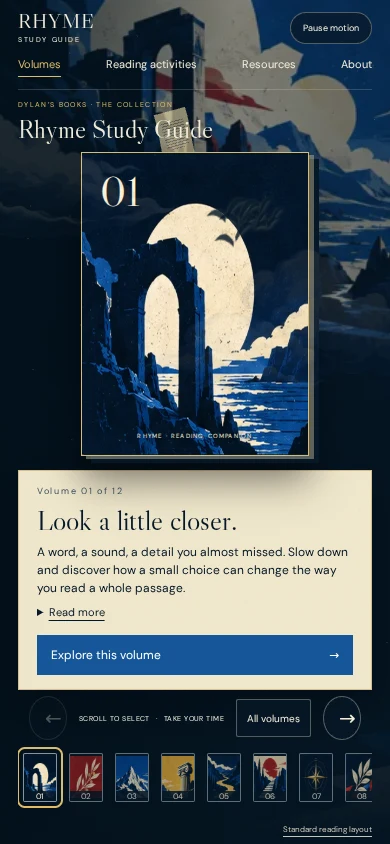
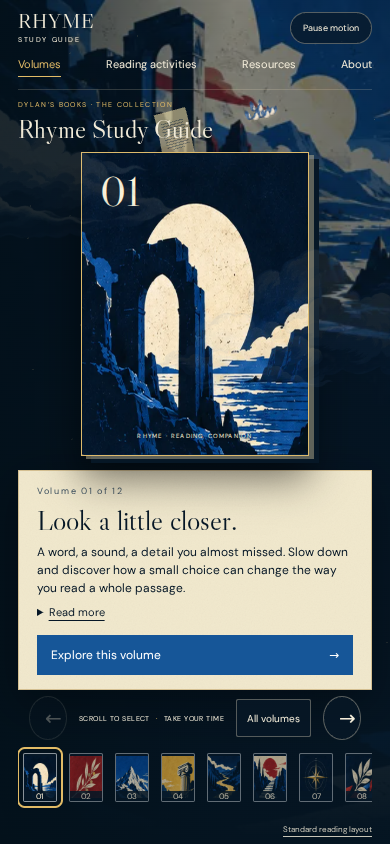
Add layered animated bird rig

diff --git a/assets/explorer.js b/assets/explorer.js
@@ -1,1 +1,1 @@
-var k=class{constructor(){this.reset()}reset(){this.total=0,this.last=-1/0,this.locked=!1,this.selectedAt=-1/0}feed(t,a){return a-this.last>220&&a-this.selectedAt>650&&(this.total=0,this.locked=!1),this.last=a,this.locked||!t||(Math.sign(t)!==Math.sign(this.total)&&(this.total=0),this.total+=t,Math.abs(this.total)<70)?0:(this.locked=!0,this.selectedAt=a,Math.sign(this.total))}};function R({surface:e,enabled:t,step:a}){let r=new k,d=s=>s.closest(".reading-panel,.thumbnail-strip,header,footer,dialog,details,input,textarea,select,a,button");e.addEventListener("wheel",s=>{if(!t()||s.ctrlKey||s.metaKey||d(s.target))return;s.preventDefault();let h=s.deltaY*(s.deltaMode===1?16:s.deltaMode===2?innerHeight:1),f=r.feed(h,performance.now());f&&a(f)},{passive:!1});let l=e.querySelector(".cover-stage"),o=null;l.addEventListener("touchstart",s=>{o=t()&&s.touches.length===1?{x:s.touches[0].clientX,y:s.touches[0].clientY}:null},{passive:!0}),l.addEventListener("touchmove",s=>{s.touches.length!==1&&(o=null)},{passive:!0}),l.addEventListener("touchend",s=>{if(!o||!t())return;let h=s.changedTouches[0].clientX-o.x,f=s.changedTouches[0].clientY-o.y;o=null;let m=Math.abs(h)>Math.abs(f)?h:f;Math.abs(m)>45&&a(m<0?1:-1)},{passive:!0}),l.addEventListener("touchcancel",()=>o=null,{passive:!0})}var X=[[-.78,.5],[-.78,.83],[.78,.83],[.78,.5]],G=[[.78,.5],[.78,.17],[-.78,.17],[-.78,.5]],U=60;function Z(e,t){let a=1-t;return{x:a**3*e[0][0]+3*a*a*t*e[1][0]+3*a*t*t*e[2][0]+t**3*e[3][0],y:a**3*e[0][1]+3*a*a*t*e[1][1]+3*a*t*t*e[2][1]+t**3*e[3][1]}}function _(e,t){let a=1-t;return{x:3*a*a*(e[1][0]-e[0][0])+6*a*t*(e[2][0]-e[1][0])+3*t*t*(e[3][0]-e[2][0]),y:3*a*a*(e[1][1]-e[0][1])+6*a*t*(e[2][1]-e[1][1])+3*t*t*(e[3][1]-e[2][1])}}function N(e,t=0){let a=((e/U+.28-t*.008)%1+1)%1,r=a<.5?X:G,d=a%.5*2,l=Z(r,d),o=_(r,d),s=Math.hypot(o.x,o.y)||1,h={x:o.x/s,y:o.y/s},f=t===0?0:(t%2?1:-1)*(.024+Math.floor(t/2)*.018);return{x:l.x-h.y*f,y:l.y+h.x*f,angle:Math.atan2(h.y,h.x),wing:Math.sin(e*Math.PI*2*1.4+t*.8)*.65}}var J=7;function D(e){let t=!1,a=0,r=performance.now(),d=0,l=[...e.querySelectorAll("[data-bird]")],o=()=>{let m=innerWidth<700,Q=m?4:J;l.forEach((x,q)=>{if(x.hidden=q>=Q,x.hidden)return;let E=N(d,q),Y=50+E.x*44,j=12+E.y*22;x.setAttribute("transform",`translate(${Y} ${j}) rotate(${E.angle*180/Math.PI}) scale(${m?.42:.62})`),x.style.setProperty("--wing-beat",`${E.wing}rad`)})},s=m=>{a=0,!(t||document.hidden)&&(d+=Math.min((m-r)/1e3,.07),r=m,o(),a=requestAnimationFrame(s))},h=()=>{cancelAnimationFrame(a),a=0,!t&&!document.hidden&&(r=performance.now(),a=requestAnimationFrame(s))},f=()=>o();return addEventListener("resize",f),o(),h(),{setPaused(m){t=m,t?(cancelAnimationFrame(a),a=0,o()):h(),e.dataset.paused=String(t)},dispose(){t=!0,cancelAnimationFrame(a),removeEventListener("resize",f)}}}var ee=[["Notice the small things","Look a little closer.","A word, a sound, a detail you almost missed. Slow down and discover how a small choice can change the way you read a whole passage.",["Attention","Imagery"],"study-guide/reading-practice/notice/","Moonlit arch"],["Find where you belong","Follow the roots.","Explore how places and relationships shape a sense of belonging. Notice who feels at home, who stands apart, and what brings them together.",["Belonging","Setting"],"themes/belonging/","Olive branch"],["See another perspective","A different point of view.","Step beyond your first impression. Ask whose story you are hearing and how the same moment might look through someone else\u2019s eyes.",["Perspective","Narrator"],"themes/perspective/","Mountain peak"],["Build an interpretation","Give your idea a foundation.","Start with a detail from your reading, then build an interpretation around it. Separate what the text tells you from what you infer.",["Evidence","Inference"],"vocabulary/inference/","Classical column"],["Follow an idea","Find the thread.","Connect two moments in your reading. Look for an image, choice, or question that returns, and consider what changes along the way.",["Connection","Theme"],"study-guide/reading-practice/connect/","Golden river"],["Notice what changes","Every step reveals something.","Compare the beginning with a later moment. A small shift in language, a new choice, or a changed relationship can reveal a larger transformation.",["Change","Character"],"themes/change/","Staircase and sun"],["Find your reading direction","Let curiosity lead.","Choose a passage and a question to guide you. Follow a short reading activity at your own pace, with room to pause and return.",["Curiosity","Reflection"],"study-guide/reading-practice/","Compass star"],["Listen to the language","Hear the words differently.","Read a sentence aloud. Listen for its rhythm, its pauses, and its movement. Consider how the pace changes what you feel and notice.",["Rhythm","Sound"],"vocabulary/rhythm/","Paper and branch"],["Follow the echoes","Listen for a returning sound.","Explore the sounds that connect words and lines. Notice how a rhyme creates expectation, adds emphasis, or draws two ideas together.",["Rhyme","Language"],"vocabulary/rhyme/","Ocean wave"],["Step into the setting","A world beyond the page.","Look at the place, time, and conditions surrounding a story. Ask how those surroundings influence a character\u2019s choices and the mood of a scene.",["Setting","Imagery"],"vocabulary/setting/","Stone doorway"],["Make room for another view","See a little further.","One passage can open more than one possibility. Revisit a first impression, listen to another perspective, and return to the text with a new question.",["Perspective","Reflection"],"study-guide/reading-practice/reflect/","Lighthouse"],["Carry the conversation on","The last page is a beginning.","Bring a detail, a connection, or an unanswered question to another reader. Make room for different interpretations and see what you discover together.",["Conversation","Discovery"],"discussion/","Moonlit steps"]],w=ee.map(([e,t,a,r,d,l],o)=>({id:o+1,number:String(o+1).padStart(2,"0"),title:`Volume ${String(o+1).padStart(2,"0")}`,focus:e,headline:t,summary:a,themes:r,activity:d,art:l,status:"reading-companion",bookTitle:null,bookSummary:null,accent:["#164f8d","#9d352b","#245d9a","#d2ad50"][o%4],coverImage:`assets/volumes/volume-${String(o+1).padStart(2,"0")}.webp`,thumbnail:`assets/volumes/volume-${String(o+1).padStart(2,"0")}-small.webp`,route:`volumes/${String(o+1).padStart(2,"0")}/`}));var H=new Set(["volumes","activities","resources","about"]),L=class{constructor(t,a=""){this.volumes=t,this.listeners=new Set,this.state={activeIndex:0,view:"volumes",expanded:!1,transition:"idle",motionOff:!1,chooserOpen:!1},this.readHash(a)}snapshot(){return{...this.state,volume:this.volumes[this.state.activeIndex],canPrevious:this.state.activeIndex>0,canNext:this.state.activeIndex<this.volumes.length-1}}subscribe(t){return this.listeners.add(t),t(this.snapshot()),()=>this.listeners.delete(t)}update(t){this.state={...this.state,...t},this.listeners.forEach(a=>a(this.snapshot()))}select(t){return!Number.isInteger(t)||t<0||t>=this.volumes.length?!1:(this.update({activeIndex:t,view:"volumes",expanded:!1,transition:this.state.motionOff?"idle":"entering"}),!0)}step(t){return this.select(this.state.activeIndex+t)}show(t){return H.has(t)?(this.update({view:t,expanded:!1}),!0):!1}readHash(t){let a=/^#volume-(\d{2})$/.exec(t);a?this.select(Number(a[1])-1)||this.select(0):H.has(t.slice(1))?this.show(t.slice(1)):(!t||t.startsWith("#volume-"))&&this.select(0)}get hash(){return this.state.view==="volumes"?`#volume-${this.volumes[this.state.activeIndex].number}`:`#${this.state.view}`}};var u=document.documentElement,n=e=>document.querySelector(e),p=e=>[...document.querySelectorAll(e)],i=new L(w,location.hash),M=p("[data-volume]"),S=p("[data-cover]"),I=p(".volume-panel"),v=n("dialog"),A=matchMedia("(prefers-reduced-motion:reduce)"),c=-1,$="",K,g,V,b;u.classList.add("js");var W=()=>{u.dataset.documentHidden=String(document.hidden),b?.setPaused(document.hidden||i.state.motionOff||u.dataset.layout==="standard")};document.addEventListener("visibilitychange",W);W();function P(){location.hash!==i.hash&&history.pushState(null,"",i.hash)}function y(e){i.select(e)&&P()}function te(e){i.show(e)&&P()}function B(e){let t=n(".thumbnail-strip"),a=M[e];t.scrollTo({left:a.offsetLeft-t.offsetLeft-(t.clientWidth-a.clientWidth)/2,behavior:"instant"})}i.subscribe(e=>{let t=c!==e.activeIndex;if(t&&c>=0&&!e.motionOff){p(".departing-cover").forEach(l=>l.remove());let a=S[c],r=a.getBoundingClientRect(),d=a.cloneNode(!0);d.removeAttribute("data-cover"),d.className="departing-cover",d.setAttribute("aria-hidden","true"),d.style.width=`${r.width}px`,d.style.height=`${r.height}px`,n(".cover-stage").append(d),d.addEventListener("animationend",()=>d.remove(),{once:!0})}if(M.forEach((a,r)=>a.setAttribute("aria-pressed",String(r===e.activeIndex))),S.forEach((a,r)=>a.hidden=r!==e.activeIndex),I.forEach((a,r)=>{a.hidden=r!==e.activeIndex,a.querySelector("details").open=r===e.activeIndex&&e.expanded}),n("[data-position]").textContent=`Volume ${e.volume.number} of ${w.length}`,n("[data-previous]").disabled=!e.canPrevious,n("[data-next]").disabled=!e.canNext,p("[data-scene]").forEach(a=>a.hidden=a.dataset.scene!==e.view),p("header [data-view]").forEach(a=>{a.dataset.view===e.view?a.setAttribute("aria-current","page"):a.removeAttribute("aria-current")}),t){c=e.activeIndex;for(let a of[S[c],I[c]])a.classList.remove("is-entering"),a.offsetWidth,a.classList.add("is-entering");n("[data-announcer]").textContent=`Volume ${e.volume.number} of ${w.length}. ${e.volume.focus}.`,n("[data-reading-panel]").scrollTop=0,requestAnimationFrame(()=>B(c)),clearTimeout(K),K=setTimeout(()=>{S[c].classList.remove("is-entering"),I[c].classList.remove("is-entering"),i.update({transition:"idle"})},500)}$!==e.view&&($=e.view,u.dataset.currentView=$)});M.forEach((e,t)=>e.addEventListener("click",()=>y(t)));n("[data-previous]").addEventListener("click",()=>y(c-1));n("[data-next]").addEventListener("click",()=>y(c+1));p("header [data-view]").forEach(e=>e.addEventListener("click",t=>{t.preventDefault(),te(e.dataset.view)}));p("details").forEach(e=>e.addEventListener("toggle",()=>{!e.closest("[hidden]")&&e.open!==i.state.expanded&&i.update({expanded:e.open})}));function O(e){u.dataset.layout=e?"standard":"visual",e||window.scrollTo(0,0),g?.setPaused(e||i.state.motionOff),b?.setPaused(e||i.state.motionOff)}n("[data-standard]").addEventListener("click",e=>{e.preventDefault(),history.pushState(null,"","#standard"),O(!0),n("[data-return]").focus()});n("[data-return]").addEventListener("click",()=>{O(!1),P(),n("[data-standard]").focus()});function C(){O(location.hash==="#standard"),i.readHash(location.hash)}addEventListener("popstate",C);addEventListener("hashchange",C);C();function F(){v.close(),i.update({chooserOpen:!1}),n("[data-chooser]").focus({preventScroll:!0})}n("[data-chooser]").addEventListener("click",()=>{i.update({chooserOpen:!0}),v.showModal(),n("[data-close-chooser]").focus()});n("[data-close-chooser]").addEventListener("click",F);v.addEventListener("keydown",e=>{if(e.key!=="Tab")return;let t=[...v.querySelectorAll("button")],a=t[0],r=t.at(-1);e.shiftKey&&document.activeElement===a?(e.preventDefault(),r.focus()):!e.shiftKey&&document.activeElement===r&&(e.preventDefault(),a.focus())});v.addEventListener("cancel",e=>{e.preventDefault(),F()});p("[data-choice]").forEach(e=>e.addEventListener("click",()=>{y(Number(e.dataset.choice)),F()}));document.addEventListener("keydown",e=>{if(e.altKey||e.ctrlKey||e.metaKey||v.open||u.dataset.layout==="standard"||i.state.view!=="volumes"||e.target.closest("details,input,textarea,select"))return;let t={ArrowRight:c+1,ArrowLeft:c-1,Home:0,End:w.length-1}[e.key];t!==void 0&&(e.preventDefault(),y(t))});var z={get(){try{return localStorage.getItem("rhyme:motion")}catch{return null}},set(e){try{localStorage.setItem("rhyme:motion",e)}catch{}}};async function T(){let e=A.matches||z.get()==="off";i.update({motionOff:e}),u.dataset.motion=e?"off":"on";let t=n(".motion-control");t.disabled=A.matches,t.setAttribute("aria-pressed",String(e)),t.textContent=A.matches?"Reduced motion":e?"Enable motion":"Pause motion",!e&&!g&&(V??=import("./rhyme-world-renderer-KITZ2NJD.js").then(({mountWorld:a})=>a(n("#world-canvas"))).catch(()=>(u.dataset.webgl="fallback",null)),g=await V),g?.setPaused(i.state.motionOff||u.dataset.layout==="standard"),b?.setPaused(i.state.motionOff||u.dataset.layout==="standard"||document.hidden)}n(".motion-control").addEventListener("click",()=>{z.set(i.state.motionOff?"on":"off"),T()});A.addEventListener("change",T);T();n(".cover-stage").addEventListener("pointermove",e=>{!i.state.motionOff&&e.pointerType==="mouse"&&g?.setPointer((e.clientX/innerWidth-.5)*.5,(e.clientY/innerHeight-.5)*.5)});n(".cover-stage").addEventListener("pointerleave",()=>g?.setPointer(0,0));p("img").forEach(e=>{let t=()=>{e.dataset.fallback||(e.dataset.fallback="true",e.src=new URL("assets/world/fallback.svg",document.baseURI).href)};e.addEventListener("error",t),e.complete&&!e.naturalWidth&&t()});addEventListener("resize",()=>B(c));R({surface:n(".reader-shell"),enabled:()=>i.state.view==="volumes"&&!i.state.chooserOpen&&u.dataset.layout!=="standard",step:e=>y(c+e)});b=D(n(".foreground-atmosphere"));b.setPaused(i.state.motionOff||u.dataset.layout==="standard"||document.hidden);u.dataset.explorer="ready";
+var $=class{constructor(){this.reset()}reset(){this.total=0,this.last=-1/0,this.locked=!1,this.selectedAt=-1/0}feed(t,a){return a-this.last>220&&a-this.selectedAt>650&&(this.total=0,this.locked=!1),this.last=a,this.locked||!t||(Math.sign(t)!==Math.sign(this.total)&&(this.total=0),this.total+=t,Math.abs(this.total)<70)?0:(this.locked=!0,this.selectedAt=a,Math.sign(this.total))}};function N({surface:e,enabled:t,step:a}){let r=new $,d=s=>s.closest(".reading-panel,.thumbnail-strip,header,footer,dialog,details,input,textarea,select,a,button");e.addEventListener("wheel",s=>{if(!t()||s.ctrlKey||s.metaKey||d(s.target))return;s.preventDefault();let h=s.deltaY*(s.deltaMode===1?16:s.deltaMode===2?innerHeight:1),f=r.feed(h,performance.now());f&&a(f)},{passive:!1});let l=e.querySelector(".cover-stage"),o=null;l.addEventListener("touchstart",s=>{o=t()&&s.touches.length===1?{x:s.touches[0].clientX,y:s.touches[0].clientY}:null},{passive:!0}),l.addEventListener("touchmove",s=>{s.touches.length!==1&&(o=null)},{passive:!0}),l.addEventListener("touchend",s=>{if(!o||!t())return;let h=s.changedTouches[0].clientX-o.x,f=s.changedTouches[0].clientY-o.y;o=null;let m=Math.abs(h)>Math.abs(f)?h:f;Math.abs(m)>45&&a(m<0?1:-1)},{passive:!0}),l.addEventListener("touchcancel",()=>o=null,{passive:!0})}var G=[[-.78,.5],[-.78,.83],[.78,.83],[.78,.5]],U=[[.78,.5],[.78,.17],[-.78,.17],[-.78,.5]],_=60;function J(e,t){let a=1-t;return{x:a**3*e[0][0]+3*a*a*t*e[1][0]+3*a*t*t*e[2][0]+t**3*e[3][0],y:a**3*e[0][1]+3*a*a*t*e[1][1]+3*a*t*t*e[2][1]+t**3*e[3][1]}}function Q(e,t){let a=1-t;return{x:3*a*a*(e[1][0]-e[0][0])+6*a*t*(e[2][0]-e[1][0])+3*t*t*(e[3][0]-e[2][0]),y:3*a*a*(e[1][1]-e[0][1])+6*a*t*(e[2][1]-e[1][1])+3*t*t*(e[3][1]-e[2][1])}}function R(e,t=0){let a=((e/_+.28-t*.008)%1+1)%1,r=a<.5?G:U,d=a%.5*2,l=J(r,d),o=Q(r,d),s=Math.hypot(o.x,o.y)||1,h={x:o.x/s,y:o.y/s},f=t===0?0:(t%2?1:-1)*(.024+Math.floor(t/2)*.018);return{x:l.x-h.y*f,y:l.y+h.x*f,angle:Math.atan2(h.y,h.x),wing:Math.sin(e*Math.PI*2*1.4+t*.8)*.65}}var Z=7;function D(e){let t=!1,a=0,r=performance.now(),d=0,l=[...e.querySelectorAll("[data-bird]")],o=()=>{let m=innerWidth<700,Y=m?4:Z;l.forEach((g,q)=>{if(g.hidden=q>=Y,g.hidden)return;let E=R(d,q),j=50+E.x*44,X=12+E.y*22;g.style.setProperty("--bird-x",`${j}%`),g.style.setProperty("--bird-y",`${X}%`),g.style.setProperty("--bird-scale",m?.42:.62),g.style.setProperty("--bird-angle",`${E.angle}rad`),g.style.setProperty("--wing-flap",`${E.wing}rad`)})},s=m=>{a=0,!(t||document.hidden)&&(d+=Math.min((m-r)/1e3,.07),r=m,o(),a=requestAnimationFrame(s))},h=()=>{cancelAnimationFrame(a),a=0,!t&&!document.hidden&&(r=performance.now(),a=requestAnimationFrame(s))},f=()=>o();return addEventListener("resize",f),o(),h(),{setPaused(m){t=m,t?(cancelAnimationFrame(a),a=0,o()):h(),e.dataset.paused=String(t)},dispose(){t=!0,cancelAnimationFrame(a),removeEventListener("resize",f)}}}var ee=[["Notice the small things","Look a little closer.","A word, a sound, a detail you almost missed. Slow down and discover how a small choice can change the way you read a whole passage.",["Attention","Imagery"],"study-guide/reading-practice/notice/","Moonlit arch"],["Find where you belong","Follow the roots.","Explore how places and relationships shape a sense of belonging. Notice who feels at home, who stands apart, and what brings them together.",["Belonging","Setting"],"themes/belonging/","Olive branch"],["See another perspective","A different point of view.","Step beyond your first impression. Ask whose story you are hearing and how the same moment might look through someone else\u2019s eyes.",["Perspective","Narrator"],"themes/perspective/","Mountain peak"],["Build an interpretation","Give your idea a foundation.","Start with a detail from your reading, then build an interpretation around it. Separate what the text tells you from what you infer.",["Evidence","Inference"],"vocabulary/inference/","Classical column"],["Follow an idea","Find the thread.","Connect two moments in your reading. Look for an image, choice, or question that returns, and consider what changes along the way.",["Connection","Theme"],"study-guide/reading-practice/connect/","Golden river"],["Notice what changes","Every step reveals something.","Compare the beginning with a later moment. A small shift in language, a new choice, or a changed relationship can reveal a larger transformation.",["Change","Character"],"themes/change/","Staircase and sun"],["Find your reading direction","Let curiosity lead.","Choose a passage and a question to guide you. Follow a short reading activity at your own pace, with room to pause and return.",["Curiosity","Reflection"],"study-guide/reading-practice/","Compass star"],["Listen to the language","Hear the words differently.","Read a sentence aloud. Listen for its rhythm, its pauses, and its movement. Consider how the pace changes what you feel and notice.",["Rhythm","Sound"],"vocabulary/rhythm/","Paper and branch"],["Follow the echoes","Listen for a returning sound.","Explore the sounds that connect words and lines. Notice how a rhyme creates expectation, adds emphasis, or draws two ideas together.",["Rhyme","Language"],"vocabulary/rhyme/","Ocean wave"],["Step into the setting","A world beyond the page.","Look at the place, time, and conditions surrounding a story. Ask how those surroundings influence a character\u2019s choices and the mood of a scene.",["Setting","Imagery"],"vocabulary/setting/","Stone doorway"],["Make room for another view","See a little further.","One passage can open more than one possibility. Revisit a first impression, listen to another perspective, and return to the text with a new question.",["Perspective","Reflection"],"study-guide/reading-practice/reflect/","Lighthouse"],["Carry the conversation on","The last page is a beginning.","Bring a detail, a connection, or an unanswered question to another reader. Make room for different interpretations and see what you discover together.",["Conversation","Discovery"],"discussion/","Moonlit steps"]],b=ee.map(([e,t,a,r,d,l],o)=>({id:o+1,number:String(o+1).padStart(2,"0"),title:`Volume ${String(o+1).padStart(2,"0")}`,focus:e,headline:t,summary:a,themes:r,activity:d,art:l,status:"reading-companion",bookTitle:null,bookSummary:null,accent:["#164f8d","#9d352b","#245d9a","#d2ad50"][o%4],coverImage:`assets/volumes/volume-${String(o+1).padStart(2,"0")}.webp`,thumbnail:`assets/volumes/volume-${String(o+1).padStart(2,"0")}-small.webp`,route:`volumes/${String(o+1).padStart(2,"0")}/`}));var H=new Set(["volumes","activities","resources","about"]),L=class{constructor(t,a=""){this.volumes=t,this.listeners=new Set,this.state={activeIndex:0,view:"volumes",expanded:!1,transition:"idle",motionOff:!1,chooserOpen:!1},this.readHash(a)}snapshot(){return{...this.state,volume:this.volumes[this.state.activeIndex],canPrevious:this.state.activeIndex>0,canNext:this.state.activeIndex<this.volumes.length-1}}subscribe(t){return this.listeners.add(t),t(this.snapshot()),()=>this.listeners.delete(t)}update(t){this.state={...this.state,...t},this.listeners.forEach(a=>a(this.snapshot()))}select(t){return!Number.isInteger(t)||t<0||t>=this.volumes.length?!1:(this.update({activeIndex:t,view:"volumes",expanded:!1,transition:this.state.motionOff?"idle":"entering"}),!0)}step(t){return this.select(this.state.activeIndex+t)}show(t){return H.has(t)?(this.update({view:t,expanded:!1}),!0):!1}readHash(t){let a=/^#volume-(\d{2})$/.exec(t);a?this.select(Number(a[1])-1)||this.select(0):H.has(t.slice(1))?this.show(t.slice(1)):(!t||t.startsWith("#volume-"))&&this.select(0)}get hash(){return this.state.view==="volumes"?`#volume-${this.volumes[this.state.activeIndex].number}`:`#${this.state.view}`}};var u=document.documentElement,n=e=>document.querySelector(e),p=e=>[...document.querySelectorAll(e)],i=new L(b,location.hash),P=p("[data-volume]"),S=p("[data-cover]"),k=p(".volume-panel"),y=n("dialog"),A=matchMedia("(prefers-reduced-motion:reduce)"),c=-1,I="",K,v,V,x;u.classList.add("js");var W=()=>{u.dataset.documentHidden=String(document.hidden),x?.setPaused(document.hidden||i.state.motionOff||u.dataset.layout==="standard")};document.addEventListener("visibilitychange",W);W();function M(){location.hash!==i.hash&&history.pushState(null,"",i.hash)}function w(e){i.select(e)&&M()}function te(e){i.show(e)&&M()}function z(e){let t=n(".thumbnail-strip"),a=P[e];t.scrollTo({left:a.offsetLeft-t.offsetLeft-(t.clientWidth-a.clientWidth)/2,behavior:"instant"})}i.subscribe(e=>{let t=c!==e.activeIndex;if(t&&c>=0&&!e.motionOff){p(".departing-cover").forEach(l=>l.remove());let a=S[c],r=a.getBoundingClientRect(),d=a.cloneNode(!0);d.removeAttribute("data-cover"),d.className="departing-cover",d.setAttribute("aria-hidden","true"),d.style.width=`${r.width}px`,d.style.height=`${r.height}px`,n(".cover-stage").append(d),d.addEventListener("animationend",()=>d.remove(),{once:!0}),setTimeout(()=>d.remove(),520)}if(P.forEach((a,r)=>a.setAttribute("aria-pressed",String(r===e.activeIndex))),S.forEach((a,r)=>a.hidden=r!==e.activeIndex),k.forEach((a,r)=>{a.hidden=r!==e.activeIndex,a.querySelector("details").open=r===e.activeIndex&&e.expanded}),n("[data-position]").textContent=`Volume ${e.volume.number} of ${b.length}`,n("[data-previous]").disabled=!e.canPrevious,n("[data-next]").disabled=!e.canNext,p("[data-scene]").forEach(a=>a.hidden=a.dataset.scene!==e.view),p("header [data-view]").forEach(a=>{a.dataset.view===e.view?a.setAttribute("aria-current","page"):a.removeAttribute("aria-current")}),t){c=e.activeIndex;for(let a of[S[c],k[c]])a.classList.remove("is-entering"),a.offsetWidth,a.classList.add("is-entering");n("[data-announcer]").textContent=`Volume ${e.volume.number} of ${b.length}. ${e.volume.focus}.`,n("[data-reading-panel]").scrollTop=0,requestAnimationFrame(()=>z(c)),clearTimeout(K),K=setTimeout(()=>{S[c].classList.remove("is-entering"),k[c].classList.remove("is-entering"),i.update({transition:"idle"})},500)}I!==e.view&&(I=e.view,u.dataset.currentView=I)});P.forEach((e,t)=>e.addEventListener("click",()=>w(t)));n("[data-previous]").addEventListener("click",()=>w(c-1));n("[data-next]").addEventListener("click",()=>w(c+1));p("header [data-view]").forEach(e=>e.addEventListener("click",t=>{t.preventDefault(),te(e.dataset.view)}));p("details").forEach(e=>e.addEventListener("toggle",()=>{!e.closest("[hidden]")&&e.open!==i.state.expanded&&i.update({expanded:e.open})}));function O(e){u.dataset.layout=e?"standard":"visual",e||window.scrollTo(0,0),v?.setPaused(e||i.state.motionOff),x?.setPaused(e||i.state.motionOff)}n("[data-standard]").addEventListener("click",e=>{e.preventDefault(),history.pushState(null,"","#standard"),O(!0),n("[data-return]").focus()});n("[data-return]").addEventListener("click",()=>{O(!1),M(),n("[data-standard]").focus()});function C(){O(location.hash==="#standard"),i.readHash(location.hash)}addEventListener("popstate",C);addEventListener("hashchange",C);C();function F(){y.close(),i.update({chooserOpen:!1}),n("[data-chooser]").focus({preventScroll:!0})}n("[data-chooser]").addEventListener("click",()=>{i.update({chooserOpen:!0}),y.showModal(),n("[data-close-chooser]").focus()});n("[data-close-chooser]").addEventListener("click",F);y.addEventListener("keydown",e=>{if(e.key!=="Tab")return;let t=[...y.querySelectorAll("button")],a=t[0],r=t.at(-1);e.shiftKey&&document.activeElement===a?(e.preventDefault(),r.focus()):!e.shiftKey&&document.activeElement===r&&(e.preventDefault(),a.focus())});y.addEventListener("cancel",e=>{e.preventDefault(),F()});p("[data-choice]").forEach(e=>e.addEventListener("click",()=>{w(Number(e.dataset.choice)),F()}));document.addEventListener("keydown",e=>{if(e.altKey||e.ctrlKey||e.metaKey||y.open||u.dataset.layout==="standard"||i.state.view!=="volumes"||e.target.closest("details,input,textarea,select"))return;let t={ArrowRight:c+1,ArrowLeft:c-1,Home:0,End:b.length-1}[e.key];t!==void 0&&(e.preventDefault(),w(t))});var B={get(){try{return localStorage.getItem("rhyme:motion")}catch{return null}},set(e){try{localStorage.setItem("rhyme:motion",e)}catch{}}};async function T(){let e=A.matches||B.get()==="off";i.update({motionOff:e}),u.dataset.motion=e?"off":"on";let t=n(".motion-control");t.disabled=A.matches,t.setAttribute("aria-pressed",String(e)),t.textContent=A.matches?"Reduced motion":e?"Enable motion":"Pause motion",!e&&!v&&(V??=import("./rhyme-world-renderer-KITZ2NJD.js").then(({mountWorld:a})=>a(n("#world-canvas"))).catch(()=>(u.dataset.webgl="fallback",null)),v=await V),v?.setPaused(i.state.motionOff||u.dataset.layout==="standard"),x?.setPaused(i.state.motionOff||u.dataset.layout==="standard"||document.hidden)}n(".motion-control").addEventListener("click",()=>{B.set(i.state.motionOff?"on":"off"),T()});A.addEventListener("change",T);T();n(".cover-stage").addEventListener("pointermove",e=>{!i.state.motionOff&&e.pointerType==="mouse"&&v?.setPointer((e.clientX/innerWidth-.5)*.5,(e.clientY/innerHeight-.5)*.5)});n(".cover-stage").addEventListener("pointerleave",()=>v?.setPointer(0,0));p("img").forEach(e=>{let t=()=>{e.dataset.fallback||(e.dataset.fallback="true",e.src=new URL("assets/world/fallback.svg",document.baseURI).href)};e.addEventListener("error",t),e.complete&&!e.naturalWidth&&t()});addEventListener("resize",()=>z(c));N({surface:n(".reader-shell"),enabled:()=>i.state.view==="volumes"&&!i.state.chooserOpen&&u.dataset.layout!=="standard",step:e=>w(c+e)});x=D(n(".foreground-atmosphere"));x.setPaused(i.state.motionOff||u.dataset.layout==="standard"||document.hidden);u.dataset.explorer="ready";

diff --git a/index.html b/index.html
@@ -1,6 +1,6 @@
 <!doctype html><html lang="en"><head><meta charset="utf-8"><meta name="viewport" content="width=device-width, initial-scale=1"><meta name="theme-color" content="#061726"><title>Rhyme Study Guide — Dylan’s Books</title><meta name="description" content="Twelve reading companions. Choose a volume and discover a new way to read."><link rel="canonical" href="https://luminarylabs-dev.github.io/RhymeStudyGuide/"><link rel="icon" href="/RhymeStudyGuide/assets/favicon.svg"><link rel="stylesheet" href="/RhymeStudyGuide/assets/explorer.css"><script type="module" src="/RhymeStudyGuide/assets/explorer.js"></script></head>
  <body><span class="route-anchor" id="volume-01" aria-hidden="true"></span><span class="route-anchor" id="volume-02" aria-hidden="true"></span><span class="route-anchor" id="volume-03" aria-hidden="true"></span><span class="route-anchor" id="volume-04" aria-hidden="true"></span><span class="route-anchor" id="volume-05" aria-hidden="true"></span><span class="route-anchor" id="volume-06" aria-hidden="true"></span><span class="route-anchor" id="volume-07" aria-hidden="true"></span><span class="route-anchor" id="volume-08" aria-hidden="true"></span><span class="route-anchor" id="volume-09" aria-hidden="true"></span><span class="route-anchor" id="volume-10" aria-hidden="true"></span><span class="route-anchor" id="volume-11" aria-hidden="true"></span><span class="route-anchor" id="volume-12" aria-hidden="true"></span><span class="route-anchor" id="volumes" aria-hidden="true"></span><span class="route-anchor" id="activities" aria-hidden="true"></span><span class="route-anchor" id="resources" aria-hidden="true"></span><span class="route-anchor" id="about" aria-hidden="true"></span><span class="route-anchor" id="all-volumes" aria-hidden="true"></span><a class="skip-link" href="#main">Skip to content</a><div class="reader-shell">
- <div class="world-art" aria-hidden="true"><picture><source media="(max-width:600px)" srcset="/RhymeStudyGuide/assets/world/hero-mobile.webp"><img src="/RhymeStudyGuide/assets/world/hero.webp" alt="" width="1536" height="1024"></picture><div class="world-shade"></div><canvas id="world-canvas"></canvas><div class="world-foreground"></div></div><div class="foreground-atmosphere" aria-hidden="true"><div class="cloud-layers"><img class="cloud cloud-bank" src="/RhymeStudyGuide/assets/world/cloud-bank.webp" alt="" decoding="async"><img class="cloud cloud-wisp" src="/RhymeStudyGuide/assets/world/cloud-wisp.webp" alt="" decoding="async"><img class="cloud cloud-cluster" src="/RhymeStudyGuide/assets/world/cloud-cluster.webp" alt="" decoding="async"></div><svg class="foreground-birds" viewBox="0 0 100 50" preserveAspectRatio="none"><g class="foreground-bird" data-bird="0"><path class="bird-wing bird-wing-left" d="M0 0 Q-4 -3 -8 0 Q-4 -1 0 1Z"></path><path class="bird-wing bird-wing-right" d="M0 0 Q4 -3 8 0 Q4 -1 0 1Z"></path></g><g class="foreground-bird" data-bird="1"><path class="bird-wing bird-wing-left" d="M0 0 Q-4 -3 -8 0 Q-4 -1 0 1Z"></path><path class="bird-wing bird-wing-right" d="M0 0 Q4 -3 8 0 Q4 -1 0 1Z"></path></g><g class="foreground-bird" data-bird="2"><path class="bird-wing bird-wing-left" d="M0 0 Q-4 -3 -8 0 Q-4 -1 0 1Z"></path><path class="bird-wing bird-wing-right" d="M0 0 Q4 -3 8 0 Q4 -1 0 1Z"></path></g><g class="foreground-bird" data-bird="3"><path class="bird-wing bird-wing-left" d="M0 0 Q-4 -3 -8 0 Q-4 -1 0 1Z"></path><path class="bird-wing bird-wing-right" d="M0 0 Q4 -3 8 0 Q4 -1 0 1Z"></path></g><g class="foreground-bird" data-bird="4"><path class="bird-wing bird-wing-left" d="M0 0 Q-4 -3 -8 0 Q-4 -1 0 1Z"></path><path class="bird-wing bird-wing-right" d="M0 0 Q4 -3 8 0 Q4 -1 0 1Z"></path></g><g class="foreground-bird" data-bird="5"><path class="bird-wing bird-wing-left" d="M0 0 Q-4 -3 -8 0 Q-4 -1 0 1Z"></path><path class="bird-wing bird-wing-right" d="M0 0 Q4 -3 8 0 Q4 -1 0 1Z"></path></g><g class="foreground-bird" data-bird="6"><path class="bird-wing bird-wing-left" d="M0 0 Q-4 -3 -8 0 Q-4 -1 0 1Z"></path><path class="bird-wing bird-wing-right" d="M0 0 Q4 -3 8 0 Q4 -1 0 1Z"></path></g></svg></div>
+ <div class="world-art" aria-hidden="true"><picture><source media="(max-width:600px)" srcset="/RhymeStudyGuide/assets/world/hero-mobile.webp"><img src="/RhymeStudyGuide/assets/world/hero.webp" alt="" width="1536" height="1024"></picture><div class="world-shade"></div><canvas id="world-canvas"></canvas><div class="world-foreground"></div></div><div class="foreground-atmosphere" aria-hidden="true"><div class="cloud-layers"><img class="cloud cloud-bank" src="/RhymeStudyGuide/assets/world/cloud-bank.webp" alt="" decoding="async"><img class="cloud cloud-wisp" src="/RhymeStudyGuide/assets/world/cloud-wisp.webp" alt="" decoding="async"><img class="cloud cloud-cluster" src="/RhymeStudyGuide/assets/world/cloud-cluster.webp" alt="" decoding="async"></div><div class="foreground-birds"><div class="foreground-bird" data-bird="0"><img class="bird-part bird-wing bird-wing-left" src="/RhymeStudyGuide/assets/world/bird-wing-left.png" alt="" decoding="async"><img class="bird-part bird-body" src="/RhymeStudyGuide/assets/world/bird-body.png" alt="" decoding="async"><img class="bird-part bird-wing bird-wing-right" src="/RhymeStudyGuide/assets/world/bird-wing-right.png" alt="" decoding="async"></div><div class="foreground-bird" data-bird="1"><img class="bird-part bird-wing bird-wing-left" src="/RhymeStudyGuide/assets/world/bird-wing-left.png" alt="" decoding="async"><img class="bird-part bird-body" src="/RhymeStudyGuide/assets/world/bird-body.png" alt="" decoding="async"><img class="bird-part bird-wing bird-wing-right" src="/RhymeStudyGuide/assets/world/bird-wing-right.png" alt="" decoding="async"></div><div class="foreground-bird" data-bird="2"><img class="bird-part bird-wing bird-wing-left" src="/RhymeStudyGuide/assets/world/bird-wing-left.png" alt="" decoding="async"><img class="bird-part bird-body" src="/RhymeStudyGuide/assets/world/bird-body.png" alt="" decoding="async"><img class="bird-part bird-wing bird-wing-right" src="/RhymeStudyGuide/assets/world/bird-wing-right.png" alt="" decoding="async"></div><div class="foreground-bird" data-bird="3"><img class="bird-part bird-wing bird-wing-left" src="/RhymeStudyGuide/assets/world/bird-wing-left.png" alt="" decoding="async"><img class="bird-part bird-body" src="/RhymeStudyGuide/assets/world/bird-body.png" alt="" decoding="async"><img class="bird-part bird-wing bird-wing-right" src="/RhymeStudyGuide/assets/world/bird-wing-right.png" alt="" decoding="async"></div><div class="foreground-bird" data-bird="4"><img class="bird-part bird-wing bird-wing-left" src="/RhymeStudyGuide/assets/world/bird-wing-left.png" alt="" decoding="async"><img class="bird-part bird-body" src="/RhymeStudyGuide/assets/world/bird-body.png" alt="" decoding="async"><img class="bird-part bird-wing bird-wing-right" src="/RhymeStudyGuide/assets/world/bird-wing-right.png" alt="" decoding="async"></div><div class="foreground-bird" data-bird="5"><img class="bird-part bird-wing bird-wing-left" src="/RhymeStudyGuide/assets/world/bird-wing-left.png" alt="" decoding="async"><img class="bird-part bird-body" src="/RhymeStudyGuide/assets/world/bird-body.png" alt="" decoding="async"><img class="bird-part bird-wing bird-wing-right" src="/RhymeStudyGuide/assets/world/bird-wing-right.png" alt="" decoding="async"></div><div class="foreground-bird" data-bird="6"><img class="bird-part bird-wing bird-wing-left" src="/RhymeStudyGuide/assets/world/bird-wing-left.png" alt="" decoding="async"><img class="bird-part bird-body" src="/RhymeStudyGuide/assets/world/bird-body.png" alt="" decoding="async"><img class="bird-part bird-wing bird-wing-right" src="/RhymeStudyGuide/assets/world/bird-wing-right.png" alt="" decoding="async"></div></div></div>
  <header><a class="wordmark" href="/RhymeStudyGuide/">RHYME<span>STUDY GUIDE</span></a><nav aria-label="Main navigation"><a href="#volumes" data-view="volumes" aria-current="page">Volumes</a><a href="#activities" data-view="activities" >Reading activities</a><a href="#resources" data-view="resources" >Resources</a><a href="#about" data-view="about" >About</a></nav><button class="motion-control" aria-pressed="false" type="button">Pause motion</button></header>
  <main id="main" tabindex="-1"><section data-scene="volumes" class="volumes-scene" aria-labelledby="hero-title">
  <div class="scene-heading"><div><p class="eyebrow">DYLAN’S BOOKS · THE COLLECTION</p><h1 id="hero-title">Rhyme Study Guide</h1></div><p class="collection-caption">Twelve volumes.<br>A world between the lines.</p></div>

diff --git a/assets/atmosphere.css b/assets/atmosphere.css
@@ -6,14 +6,13 @@
 .foreground-atmosphere .cloud-wisp{width:66vw;left:0;top:27%;opacity:.12;animation-duration:190s;animation-delay:-110s}
 .foreground-atmosphere .cloud-cluster{width:40vw;left:0;top:3%;opacity:.13;animation-duration:120s;animation-delay:-72s}
 @keyframes cloud-drift{from{transform:translateX(-100%)}to{transform:translateX(100vw)}}
-.foreground-birds{position:absolute;inset:0;width:100%;height:50%;overflow:visible;pointer-events:none;fill:#031626;filter:drop-shadow(0 1px 2px #f2dfad55)}
-.foreground-bird{transform-box:fill-box;transform-origin:center;opacity:.82}
-.bird-wing{transform-box:fill-box;transform-origin:0 0;animation:bird-wingbeat .72s ease-in-out infinite alternate}
-.bird-wing-right{animation-delay:-.24s}
-.foreground-bird:nth-child(2) .bird-wing{animation-delay:-.13s}.foreground-bird:nth-child(3) .bird-wing{animation-delay:-.31s}.foreground-bird:nth-child(4) .bird-wing{animation-delay:-.47s}
-@keyframes bird-wingbeat{from{transform:rotate(-.36rad)}to{transform:rotate(.32rad)}}
+.foreground-birds{position:absolute;inset:0;width:100%;height:50%;overflow:visible;pointer-events:none;filter:drop-shadow(0 1px 2px #f2dfad55)}
+.foreground-bird{position:absolute;left:var(--bird-x);top:var(--bird-y);width:64px;height:42px;transform:translate(-50%,-50%) rotate(var(--bird-angle)) scale(var(--bird-scale));transform-origin:center;opacity:.9;will-change:transform}
+.bird-part{position:absolute;display:block;object-fit:contain;pointer-events:none;user-select:none}
+.bird-body{z-index:2;left:20px;top:4px;width:38px;height:34px}
+.bird-wing{z-index:1;width:31px;height:36px;top:3px;will-change:transform}
+.bird-wing-left{left:0;transform-origin:100% 52%;transform:rotate(calc(var(--wing-flap) * -1))}
+.bird-wing-right{left:33px;transform-origin:0 52%;transform:rotate(var(--wing-flap))}
 html[data-motion=on]:not([data-document-hidden=true]):not([data-layout=standard]) .foreground-atmosphere .cloud{animation-play-state:running}
 html[data-motion=off] .foreground-atmosphere .cloud,.foreground-atmosphere[data-paused=true] .cloud{animation-play-state:paused!important}
-html[data-motion=off] .foreground-atmosphere .bird-wing,.foreground-atmosphere[data-paused=true] .bird-wing{animation-play-state:paused!important}
-@media(prefers-reduced-motion:reduce){html .foreground-atmosphere .cloud,html .foreground-atmosphere .bird-wing{animation-play-state:paused!important}}
-@media(max-width:700px){.foreground-atmosphere .cloud-bank{width:110vw;top:8%;opacity:.11}.foreground-atmosphere .cloud-wisp{display:none}.foreground-atmosphere .cloud-cluster{width:85vw;top:25%;opacity:.08}.foreground-birds{height:48%}}
+@media(max-width:700px){.foreground-atmosphere .cloud-bank{width:110vw;top:8%;opacity:.11}.foreground-atmosphere .cloud-wisp{display:none}.foreground-atmosphere .cloud-cluster{width:85vw;top:25%;opacity:.08}.foreground-birds{height:48%}.foreground-bird{width:46px;height:31px}.bird-body{left:14px;top:3px;width:27px;height:25px}.bird-wing{width:23px;height:27px;top:2px}.bird-wing-right{left:23px}}

diff --git a/src/domains/atmosphere/style.css b/src/domains/atmosphere/style.css
@@ -6,14 +6,13 @@
 .foreground-atmosphere .cloud-wisp{width:66vw;left:0;top:27%;opacity:.12;animation-duration:190s;animation-delay:-110s}
 .foreground-atmosphere .cloud-cluster{width:40vw;left:0;top:3%;opacity:.13;animation-duration:120s;animation-delay:-72s}
 @keyframes cloud-drift{from{transform:translateX(-100%)}to{transform:translateX(100vw)}}
-.foreground-birds{position:absolute;inset:0;width:100%;height:50%;overflow:visible;pointer-events:none;fill:#031626;filter:drop-shadow(0 1px 2px #f2dfad55)}
-.foreground-bird{transform-box:fill-box;transform-origin:center;opacity:.82}
-.bird-wing{transform-box:fill-box;transform-origin:0 0;animation:bird-wingbeat .72s ease-in-out infinite alternate}
-.bird-wing-right{animation-delay:-.24s}
-.foreground-bird:nth-child(2) .bird-wing{animation-delay:-.13s}.foreground-bird:nth-child(3) .bird-wing{animation-delay:-.31s}.foreground-bird:nth-child(4) .bird-wing{animation-delay:-.47s}
-@keyframes bird-wingbeat{from{transform:rotate(-.36rad)}to{transform:rotate(.32rad)}}
+.foreground-birds{position:absolute;inset:0;width:100%;height:50%;overflow:visible;pointer-events:none;filter:drop-shadow(0 1px 2px #f2dfad55)}
+.foreground-bird{position:absolute;left:var(--bird-x);top:var(--bird-y);width:64px;height:42px;transform:translate(-50%,-50%) rotate(var(--bird-angle)) scale(var(--bird-scale));transform-origin:center;opacity:.9;will-change:transform}
+.bird-part{position:absolute;display:block;object-fit:contain;pointer-events:none;user-select:none}
+.bird-body{z-index:2;left:20px;top:4px;width:38px;height:34px}
+.bird-wing{z-index:1;width:31px;height:36px;top:3px;will-change:transform}
+.bird-wing-left{left:0;transform-origin:100% 52%;transform:rotate(calc(var(--wing-flap) * -1))}
+.bird-wing-right{left:33px;transform-origin:0 52%;transform:rotate(var(--wing-flap))}
 html[data-motion=on]:not([data-document-hidden=true]):not([data-layout=standard]) .foreground-atmosphere .cloud{animation-play-state:running}
 html[data-motion=off] .foreground-atmosphere .cloud,.foreground-atmosphere[data-paused=true] .cloud{animation-play-state:paused!important}
-html[data-motion=off] .foreground-atmosphere .bird-wing,.foreground-atmosphere[data-paused=true] .bird-wing{animation-play-state:paused!important}
-@media(prefers-reduced-motion:reduce){html .foreground-atmosphere .cloud,html .foreground-atmosphere .bird-wing{animation-play-state:paused!important}}
-@media(max-width:700px){.foreground-atmosphere .cloud-bank{width:110vw;top:8%;opacity:.11}.foreground-atmosphere .cloud-wisp{display:none}.foreground-atmosphere .cloud-cluster{width:85vw;top:25%;opacity:.08}.foreground-birds{height:48%}}
+@media(max-width:700px){.foreground-atmosphere .cloud-bank{width:110vw;top:8%;opacity:.11}.foreground-atmosphere .cloud-wisp{display:none}.foreground-atmosphere .cloud-cluster{width:85vw;top:25%;opacity:.08}.foreground-birds{height:48%}.foreground-bird{width:46px;height:31px}.bird-body{left:14px;top:3px;width:27px;height:25px}.bird-wing{width:23px;height:27px;top:2px}.bird-wing-right{left:23px}}

diff --git a/docs/volume-explorer.md b/docs/volume-explorer.md
@@ -37,4 +37,4 @@ Run `npm run build`, `npm test`, and `npm run validate`. Run `QA_CHROMIUM_PATH=/
 
 The atmosphere domain also owns `clouds.mjs`, `style.css`, and `flock.mjs`. Cloud HTML is rendered in a fixed `.foreground-atmosphere` layer above the reader and outside `world-art`; `pointer-events: none` keeps all controls clickable. CSS transforms move three alpha WebP images across the upper half of the screen over 120–190 seconds. Their resets occur outside the viewport. Two layers remain visible on mobile. Cloud animation pauses for reduced motion, the visible motion toggle, hidden documents and standard reading layout.
 
-Seven small SVG bird silhouettes (four on narrow screens) follow two joined cubic Bézier segments in a closed 60-second path. Path tangents align the flock, phase offsets create cohesion, and alternating lateral slots maintain separation without a simulation or new dependency. Staggered wingbeats also close on the same period. This is a lightweight guided flock, not a general-purpose boids simulation. The same path is retained in the Three.js flock helper for native validation; the production foreground uses lightweight SVG silhouettes. The overlay is z-indexed above the reader, uses transparent alpha assets, and passes all pointer input through to the controls. Local browser captures validate the cloud layers, bird layer, overlap and pointer pass-through.
+Seven generated bird rigs (four on narrow screens) follow two joined cubic Bézier segments in a closed 60-second path. Each rig is composed from a separate body, left wing, and right wing sprite; the path controls position and heading while the wing phase rotates both wings from their attachment points. Phase offsets create cohesion and alternating lateral slots maintain separation without a simulation or new dependency. This is a lightweight guided flock, not a general-purpose boids simulation. The same path is retained in the Three.js flock helper for native validation. The overlay is z-indexed above the reader, uses transparent alpha assets, and passes all pointer input through to the controls. Local browser captures validate the cloud layers, bird parts, overlap and pointer pass-through.

diff --git a/validation/release/atmosphere/README.md b/validation/release/atmosphere/README.md
@@ -1,11 +1,11 @@
-# Foreground atmosphere review — 2.3.0
+# Foreground atmosphere review — 2.4.0
 
 Baseline: 52dc80eed125d1af283d05b45fe01ee33f8ad08d.
 
 The clouds and birds now occupy a fixed transparent foreground overlay across the upper half of the viewport. The overlay is above the book and reading panel visually and uses `pointer-events: none` so every control remains clickable.
 
-The local browser suite passed 56 checks, including the existing reader tests, foreground z-index and pointer pass-through, cloud loading and drift, pause motion, reduced motion, hidden-document freezing, desktop/mobile bird counts, overlap, and all existing reader interactions. Seventeen unit/content tests passed. Forty static routes and 905 links passed.
+The local browser suite passed 56 checks, including the existing reader tests, foreground z-index and pointer pass-through, cloud loading and drift, pause motion, reduced motion, hidden-document freezing, desktop/mobile bird counts, layered bird asset loading, overlap, and all existing reader interactions. Seventeen unit/content tests passed. Forty static routes and 926 links passed.
 
-The actual Three.js scene rendered through native WGPU/Vulkan on Mesa Lavapipe. The shared flock path renders at the same pose at the loop boundary, with deterministic native output. Browser captures validate the transparent image and SVG foreground layer; native rendering validates the shared path and Three.js flock helper.
+The actual Three.js scene rendered through native WGPU/Vulkan on Mesa Lavapipe. The shared flock path renders at the same pose at the loop boundary, with deterministic native output. Browser captures validate the transparent image and layered bird foreground; native rendering validates the shared path and Three.js flock helper.
 
 Physical-device, screen-reader, Safari and Firefox behavior was not tested.

diff --git a/docs/assets.md b/docs/assets.md
@@ -28,4 +28,4 @@ Individual subjects:
 - Wisp: “Long slender wisp, mostly muted slate blue with small warm cream highlights, delicate tapered ends.”
 - Cluster: “Compact asymmetrical cluster of rounded clouds, cobalt and midnight blue shadows, muted cream tops.”
 
-Clouds are image assets; birds are small code-native Three.js meshes, not generated raster images.
+Clouds are image assets. The foreground bird is a generated transparent sprite sheet with three separated parts, exported as `bird-body.png`, `bird-wing-left.png`, and `bird-wing-right.png`. The browser composes those parts per bird and rotates both wings from their attachment points; the shared flock path remains code-native for movement and native Three.js validation.

diff --git a/CHANGELOG.md b/CHANGELOG.md
@@ -1,3 +1,9 @@
+# 2.4.0 — Layered bird rig
+
+- Added a generated transparent bird sprite sheet with separately exported body and wing parts.
+- Replaced the small SVG bird marks with layered browser rigs that flap both wings along the shared Bézier flock path.
+- Added a cleanup fallback for rapid cover changes so the selected book always settles without a stale departing cover.
+
 # 2.3.0 — Foreground atmosphere
 
 - Moved transparent clouds and birds into a fixed foreground layer above the reader.
